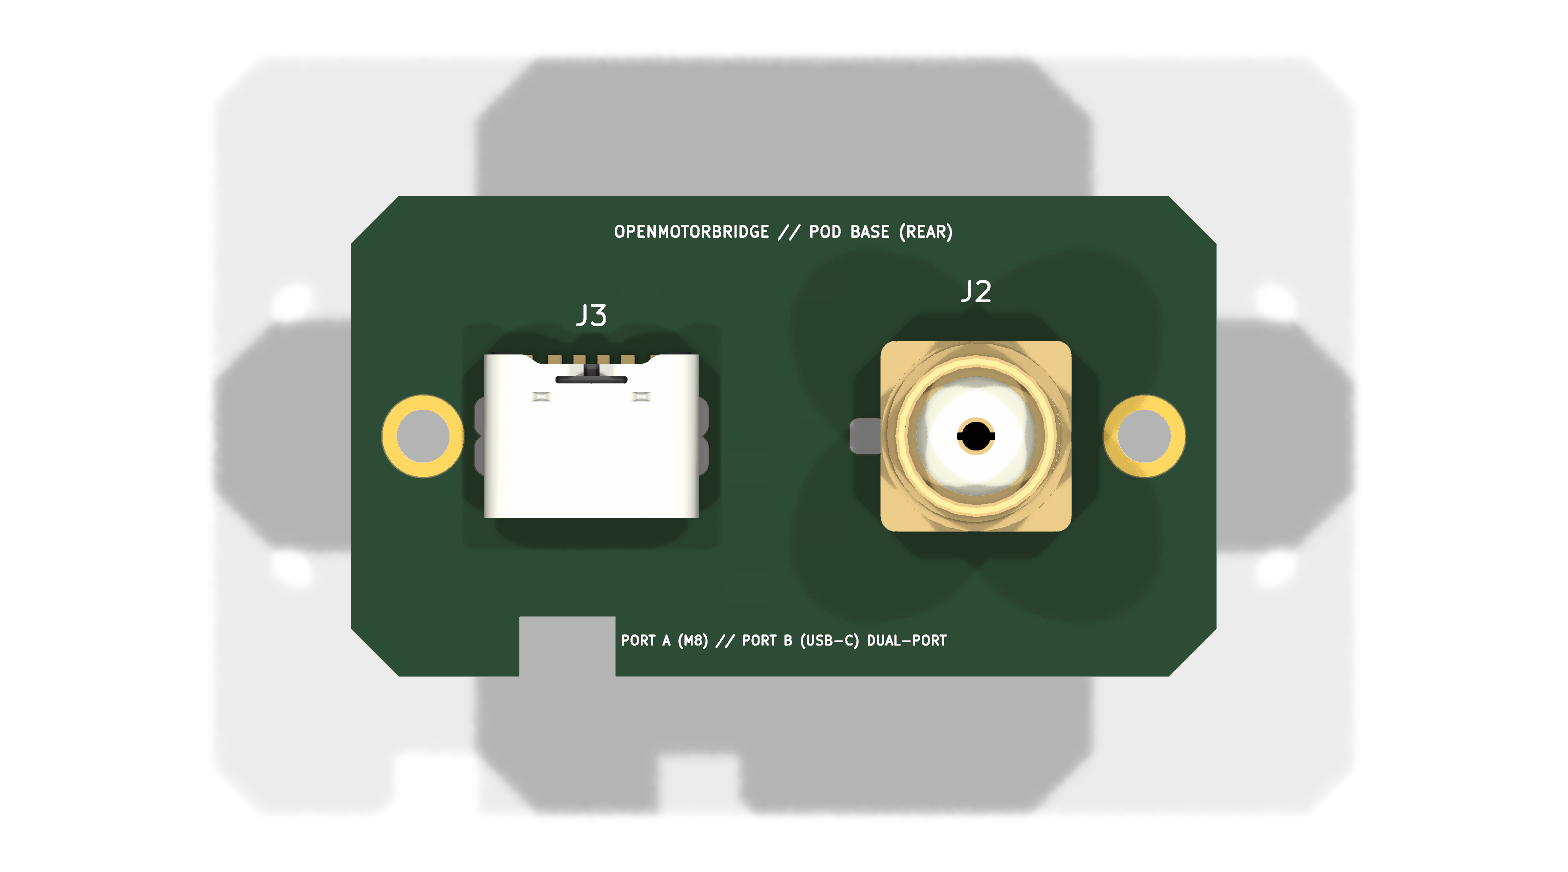
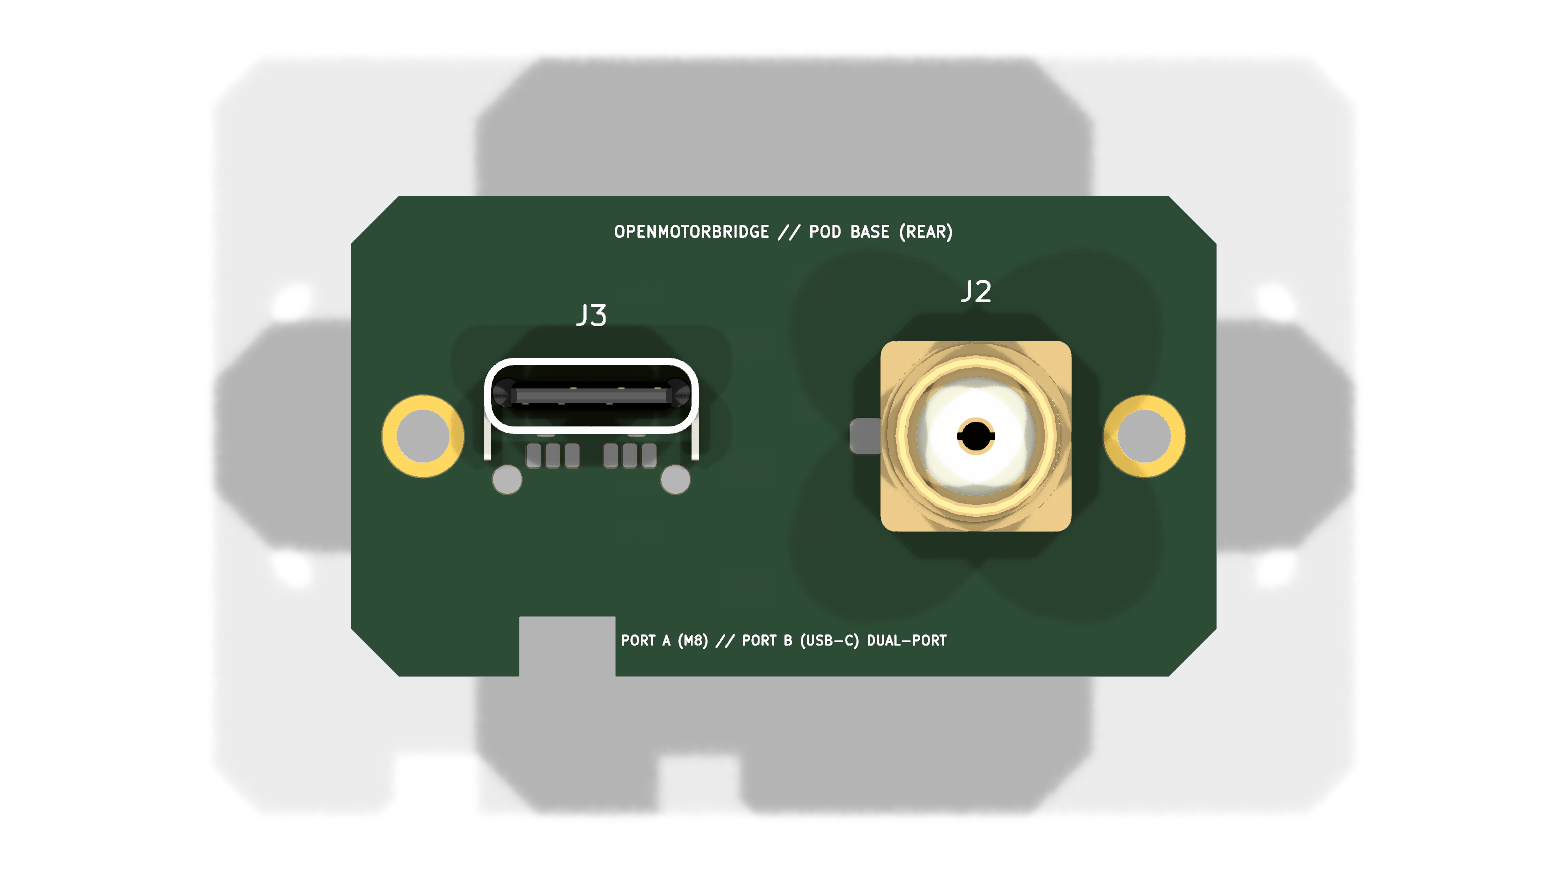
fix(hardware): switch Port B to vertical USB-C and add 7mm recessed plug-well to CAD housing

Changed region(s): [[0.2812, 0.4025, 0.4688, 0.6502]]

diff --git a/docs/de/08_enclosures_mechanics_cad.md b/docs/de/08_enclosures_mechanics_cad.md
@@ -259,8 +259,11 @@ Um sowohl exponierte Outdoor-Einsätze (z. B. Sturzbügel-Montage bei Adventure-
 3. **Hardware-Arbitrierung (Prioritäts- & Rückspeiseschutz):**
    * Ein integrierter Ideal-Dioden-Power-Multiplexer (z. B. TI LM66100 / P-Kanal MOSFETs) schaltet automatisch die jeweils aktive Versorgungsspannung durch.
    * Wird Port A (M8) mit Bordnetz versorgt, wird Port B (Slim-Port) rückspeisefest gesperrt. Wird im Koffer Port B versorgt, ist Port A inaktiv. Ein versehentlicher Kurzschluss oder Parallelbetrieb ist physikalisch ausgeschlossen.
-4. **Schutz & Flexibilität:**
-   * Port B ist durch einen bündigen, formangepassten TPU-Dichtstopfen mit Haltekollier (`pod_base_usbc_cap_tpu.stl`) versiegelt, wenn der Pod im Freien über Port A betrieben wird.
+4. **Axiale Ausrichtung & Eingelassene Stecktasche (Tiefenkompensation):**
+   * **Senkrechte Buchsenausrichtung:** Die USB-C-Buchse (`J3`) auf `B.Cu` steht wie die M8-Buchse **senkrecht** (normal zur Platinenoberfläche) in axialer Steckrichtung.
+   * **Tiefen-Kompensation ($7{,}0\,\text{mm}$ Stecktasche):** Da die Platine durch die $116\,\text{mm}$ Kassettenlänge an der Schottwand bei $X = 18{,}0\,\text{mm}$ ($X = 16{,}4\,\text{mm}$ Platinenrückseite `B.Cu`) fixiert ist, reicht eine standardmäßige vertikale USB-C-Buchse ($H \approx 9{,}5 \dots 10{,}0\,\text{mm}$) bis $X \approx 6{,}9\,\text{mm}$. An der Gehäuserückwand ist daher eine **$7{,}0\,\text{mm}$ tiefe Stecktasche** ($14{,}0 \times 8{,}5\,\text{mm}$) mit innenliegendem Dichtkragen eingeformt.
+   * **Passgenauigkeit:** Die Buchsenöffnung schließt am Grund der Stecktasche exakt bündig ab. Handelsübliche USB-C-Kabelstecker finden kollisionsfreien Halt und rasten spürbar ein.
+   * **TPU-Versiegelung:** Bei Außenbetrieb über Port A dichtet der formangepasste TPU-Schutzstopfen ([`008_pod_base_usbc_cap_tpu.scad`](file:///Users/schmidtm/openMotorBridge/hardware/cad/scad/02_pod_base/parts/008_pod_base_usbc_cap_tpu.scad)) die $7{,}0\,\text{mm}$ tiefe Stecktasche mit doppelten Dichtlippen hermetisch (IP67) und gehäusebündig ab.
 5. **Universelle Multi-Plattform-Nutzung (Begleitfahrzeug / Pkw-Cockpit / Werkbank):**
    * Derselbe Pod kann ohne Modifikation oder zusätzliche Adapterplatinen in einem Begleitfahrzeug (Support-Van, Tour-Guide-Pkw, Besenfahrzeug) eingesetzt werden: Statt starre, schwere Industrie-M8-Kabelbäume durch den Fahrzeuginnenraum zum Armaturenbrett zu verlegen, wird der Pod einfach über Port B mit einem handelsüblichen, extrem flexiblen Slim-USB-C-Kabel an einen 12V-USB-Adapter oder eine Bordbuchse angeschlossen.
    * **100 % Universalität:** Ein einziges physikalisches Pod-Design deckt somit nahtlos **Outdoor-Motorrad** (Port A, M8 IP67), **Koffer-Innenraum** (Port B, MagSafe-Kupplung) und **Begleitfahrzeug / Testbench** (Port B, Standard-Slim-Kabel) ab.

diff --git a/docs/en/08_enclosures_mechanics_cad.md b/docs/en/08_enclosures_mechanics_cad.md
@@ -225,8 +225,11 @@ To support both exposed outdoor deployments (e.g. crash-bar clamps on adventure 
 3. **Hardware Arbitration (Priority & Reverse-Current Protection):**
    * An integrated ideal-diode power multiplexer (e.g. TI LM66100 / Dual P-FETs) automatically routes power from the active port while preventing reverse current feeding into the inactive port.
    * If Port A (M8) receives bike power, Port B is isolated. If Port B receives power in the saddlebag, Port A is isolated. Cross-conduction and short circuits are physically impossible.
-4. **Environmental Sealing:**
-   * Port B is protected by a flush-fitting TPU sealing cap with retaining lanyard (`pod_base_usbc_cap_tpu.stl`) whenever the pod operates outdoors via Port A.
+4. **Axial Alignment & Recessed Plug-Well (Depth Compensation):**
+   * **Vertical Connector Orientation:** The USB-C receptacle (`J3`) on `B.Cu` stands **vertical** (normal to the PCB plane), aligned with the axial mating direction matching the M8 connector.
+   * **Depth Compensation ($7.0\,\text{mm}$ Plug-Well):** Because the PCB is positioned against the bulkhead at $X = 18.0\,\text{mm}$ ($X = 16.4\,\text{mm}$ on `B.Cu`) to accommodate the $116\,\text{mm}$ long cartridge sled, a standard vertical USB-C connector ($H \approx 9.5\dots 10.0\,\text{mm}$) reaches to $X \approx 6.9\,\text{mm}$. The rear housing wall is therefore molded with a **$7.0\,\text{mm}$ deep recessed plug-well** ($14.0 \times 8.5\,\text{mm}$) with an internal isolating sleeve.
+   * **Plug Clearance:** The USB-C receptacle mouth sits perfectly flush at the base of this well, allowing standard USB-C cable overmolds to insert and latch securely without housing collision.
+   * **TPU Sealing:** When operating outdoors via Port A, the molded TPU dust cap ([`008_pod_base_usbc_cap_tpu.scad`](file:///Users/schmidtm/openMotorBridge/hardware/cad/scad/02_pod_base/parts/008_pod_base_usbc_cap_tpu.scad)) seals the $7.0\,\text{mm}$ well with dual sealing ribs flush with the outer shell (IP67).
 5. **Universal Multi-Platform Deployment (Support Vehicles / Cabin / Lab Bench):**
    * The exact same pod can be deployed without modifications or secondary adapter boards in a chase/support vehicle (tour guide van, rally support car, sag wagon): Instead of routing bulky, rigid industrial M8 harness cables across the vehicle cabin or dashboard, the pod is powered via Port B using an off-the-shelf, ultra-flexible slim USB-C cable plugged into a standard 12V USB charger or dashboard port.
    * **100% Universal Hardware:** A single physical pod design seamlessly covers **outdoor motorcycle duty** (Port A, M8 IP67), **saddlebag interior mounting** (Port B via MagSafe coupling), and **support vehicle / testbench operation** (Port B, standard slim cable).
